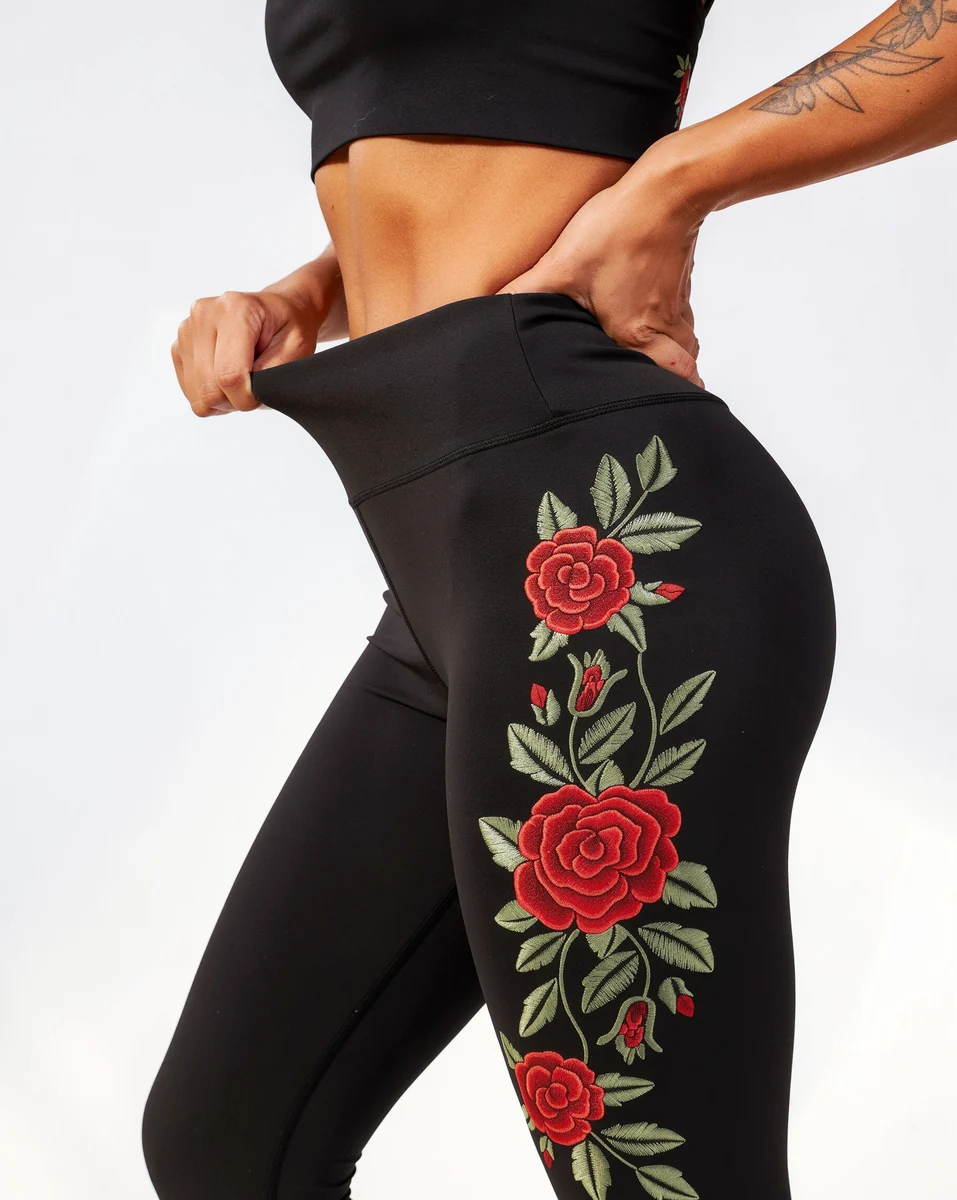
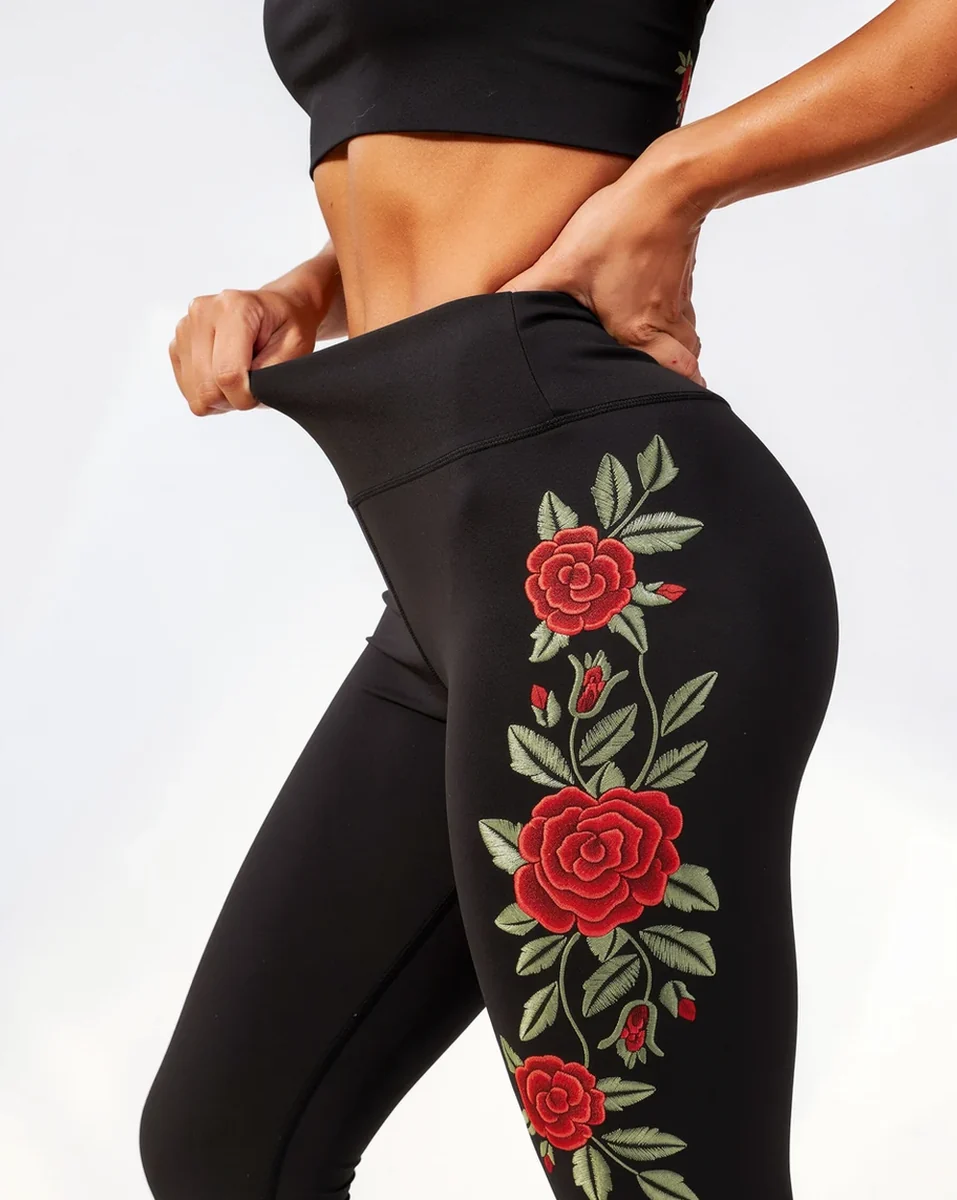
Remove tattoos, replace group shots, add the Venezuela address
- Removed the pale patch on the Wildflower editorial properly; the
  earlier pass was too gentle and left the bright core.
- Added the chest mark to the jacket editorial and darkened its
  silver zip pull to match the real garment.
- Removed arm tattoos from four product images and two cards.
- Replaced the two three-model group shots with single-model back
  views carrying the correct print and a tight ankle.
- Matched the model on refined-jacket-5 to the rest of that set.
- New address across the site footers and the contact page.

Claude-Session: https://claude.ai/code/session_01H2N2bsu5qw9aqWFwFaRsDy

diff --git a/contact.html b/contact.html
@@ -63,7 +63,8 @@
 
         <p class="contact__address">
           ABIRA HQ<br>
-          Dubai, Motor city, fashion street 981
+          Urb La Viña, Tower A1, floor 3, office 3-3,<br>
+          Valencia, Carabobo, Venezuela
         </p>
       </div>
 
@@ -132,7 +133,7 @@
       <div class="footer__box footer__box--text">
         <a href="mailto:hello@abiraactive.com">hello@abiraactive.com</a>
         <a href="tel:00962796963100">00962796963100</a>
-        <p>Dubai, Motor city<br>fashion street 981</p>
+        <p>Urb La Viña, Tower A1, floor 3, office 3-3<br>Valencia, Carabobo, Venezuela</p>
       </div>
     </div>
   </footer>

diff --git a/about.html b/about.html
@@ -185,7 +185,7 @@
       <div class="footer__box footer__box--text">
         <a href="mailto:hello@abiraactive.com">hello@abiraactive.com</a>
         <a href="tel:00962796963100">00962796963100</a>
-        <p>Dubai, Motor city<br>fashion street 981</p>
+        <p>Urb La Viña, Tower A1, floor 3, office 3-3<br>Valencia, Carabobo, Venezuela</p>
       </div>
     </div>
   </footer>

diff --git a/index.html b/index.html
@@ -255,7 +255,7 @@
       <div class="footer__box footer__box--text">
         <a href="mailto:hello@abiraactive.com">hello@abiraactive.com</a>
         <a href="tel:00962796963100">00962796963100</a>
-        <p>Dubai, Motor city<br>fashion street 981</p>
+        <p>Urb La Viña, Tower A1, floor 3, office 3-3<br>Valencia, Carabobo, Venezuela</p>
       </div>
     </div>
   </footer>

diff --git a/locations.html b/locations.html
@@ -162,7 +162,7 @@
       <div class="footer__box footer__box--text">
         <a href="mailto:hello@abiraactive.com">hello@abiraactive.com</a>
         <a href="tel:00962796963100">00962796963100</a>
-        <p>Dubai, Motor city<br>fashion street 981</p>
+        <p>Urb La Viña, Tower A1, floor 3, office 3-3<br>Valencia, Carabobo, Venezuela</p>
       </div>
     </div>
   </footer>

diff --git a/product.html b/product.html
@@ -116,7 +116,7 @@
       <div class="footer__box footer__box--text">
         <a href="mailto:hello@abiraactive.com">hello@abiraactive.com</a>
         <a href="tel:00962796963100">00962796963100</a>
-        <p>Dubai, Motor city<br>fashion street 981</p>
+        <p>Urb La Viña, Tower A1, floor 3, office 3-3<br>Valencia, Carabobo, Venezuela</p>
       </div>
     </div>
   </footer>

diff --git a/products.html b/products.html
@@ -103,7 +103,7 @@
       <div class="footer__box footer__box--text">
         <a href="mailto:hello@abiraactive.com">hello@abiraactive.com</a>
         <a href="tel:00962796963100">00962796963100</a>
-        <p>Dubai, Motor city<br>fashion street 981</p>
+        <p>Urb La Viña, Tower A1, floor 3, office 3-3<br>Valencia, Carabobo, Venezuela</p>
       </div>
     </div>
   </footer>
